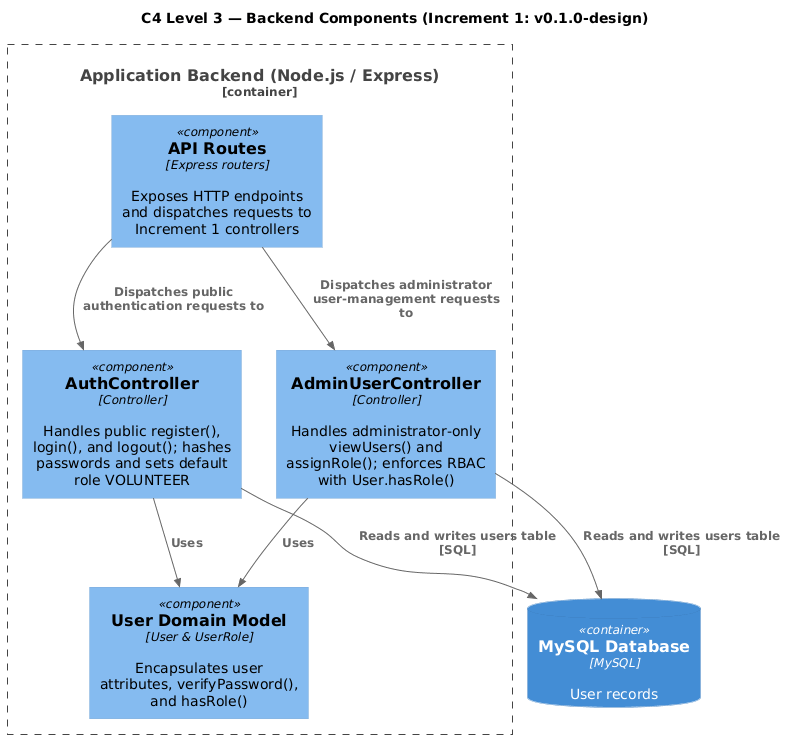
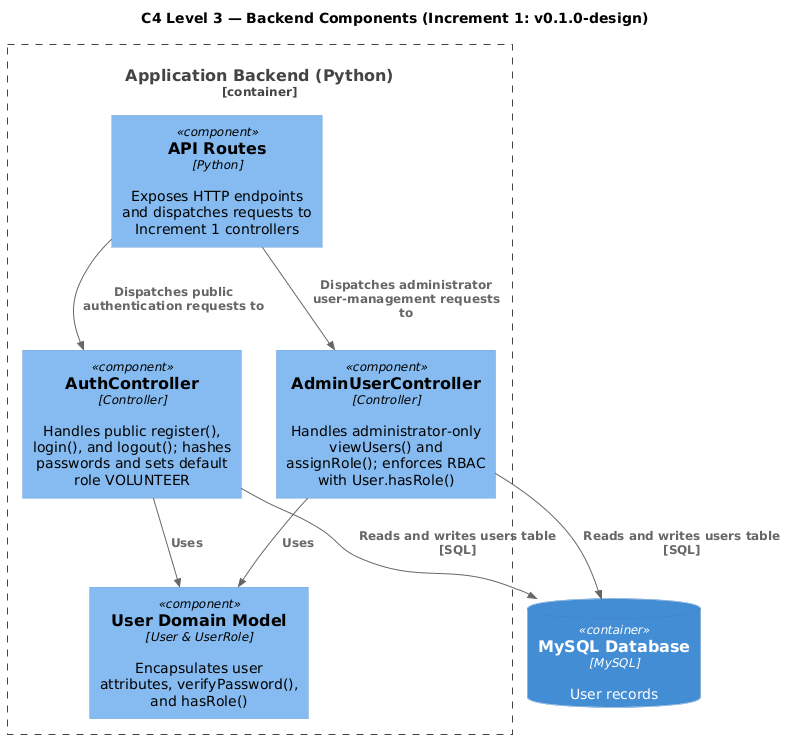
Fix backend to become python and implement database

Changed region(s): [[0.0906, 0.0924, 0.5434, 0.1232], [0.2113, 0.2155, 0.3321, 0.2463]]

diff --git a/docs/traceability_matrix.md b/docs/traceability_matrix.md
@@ -6,15 +6,15 @@ This matrix follows the four-increment roadmap in [the development plan](increme
 
 | Requirement ID | Use Case / Design Element | Increment / Version | Implementation Module(s) | Test(s) | Status |
 |---|---|---|---|---|---|
-| FR-01 | UC01; `AuthController`, `User`, `UserRole`; [SD01](../uml/sequence-diagrams/SD01_High_Level_UC01_Auth.puml), [SD03](../uml/sequence-diagrams/SD03_Low_Level_UC01_Auth.puml), [combined activity](../uml/activity-diagrams/AD_Increment1_Combined.puml), [ERD: User and role enum](../uml/erd_increment1.puml) | Increment 1 (`v0.1.0-design` / `v0.1.0`) | Planned: `AuthController`, `User` | Planned: `tests/auth/register.test.js` | Designed (`v0.1.0-design`) |
-| FR-02 | UC01; `AuthController`, `User`; [SD01](../uml/sequence-diagrams/SD01_High_Level_UC01_Auth.puml), [SD03](../uml/sequence-diagrams/SD03_Low_Level_UC01_Auth.puml), [combined activity](../uml/activity-diagrams/AD_Increment1_Combined.puml) | Increment 1 (`v0.1.0-design` / `v0.1.0`) | Planned: `AuthController`, `User` | Planned: `tests/auth/login_logout.test.js` | Designed (`v0.1.0-design`) |
-| FR-03 | UC01, UC02; `User`, `UserRole`, `AdminUserController`; [SD02](../uml/sequence-diagrams/SD02_High_Level_UC02_UserManagement.puml), [SD04](../uml/sequence-diagrams/SD04_Low_Level_UC02_UserManagement.puml), [ERD role enum](../uml/erd_increment1.puml) | Increment 1 (`v0.1.0-design` / `v0.1.0`) | Planned: `AdminUserController`, `User`, `UserRole` | Planned: `tests/admin/roles.test.js` | Designed (`v0.1.0-design`) |
-| FR-04 | UC01, UC02; `User.hasRole()`, `AuthController`, `AdminUserController`; [SD03](../uml/sequence-diagrams/SD03_Low_Level_UC01_Auth.puml), [SD04](../uml/sequence-diagrams/SD04_Low_Level_UC02_UserManagement.puml) | Increment 1 (`v0.1.0-design` / `v0.1.0`) | Planned: `AuthController`, `AdminUserController`, `User` | Planned: `tests/auth/rbac.test.js` | Designed (`v0.1.0-design`) |
+| FR-01 | UC01; `AuthController`, `User`, `UserRole`; [SD01](../uml/sequence-diagrams/SD01_High_Level_UC01_Auth.puml), [SD03](../uml/sequence-diagrams/SD03_Low_Level_UC01_Auth.puml), [combined activity](../uml/activity-diagrams/AD_Increment1_Combined.puml), [ERD: User and role enum](../uml/erd_increment1.puml) | Increment 1 (`v0.1.0-design` / `v0.1.0`) | Planned: `AuthController`, `User` | Planned: `tests/auth/test_register.py` | Designed (`v0.1.0-design`) |
+| FR-02 | UC01; `AuthController`, `User`; [SD01](../uml/sequence-diagrams/SD01_High_Level_UC01_Auth.puml), [SD03](../uml/sequence-diagrams/SD03_Low_Level_UC01_Auth.puml), [combined activity](../uml/activity-diagrams/AD_Increment1_Combined.puml) | Increment 1 (`v0.1.0-design` / `v0.1.0`) | Planned: `AuthController`, `User` | Planned: `tests/auth/test_login_logout.py` | Designed (`v0.1.0-design`) |
+| FR-03 | UC01, UC02; `User`, `UserRole`, `AdminUserController`; [SD02](../uml/sequence-diagrams/SD02_High_Level_UC02_UserManagement.puml), [SD04](../uml/sequence-diagrams/SD04_Low_Level_UC02_UserManagement.puml), [ERD role enum](../uml/erd_increment1.puml) | Increment 1 (`v0.1.0-design` / `v0.1.0`) | Planned: `AdminUserController`, `User`, `UserRole` | Planned: `tests/admin/test_roles.py` | Designed (`v0.1.0-design`) |
+| FR-04 | UC01, UC02; `User.hasRole()`, `AuthController`, `AdminUserController`; [SD03](../uml/sequence-diagrams/SD03_Low_Level_UC01_Auth.puml), [SD04](../uml/sequence-diagrams/SD04_Low_Level_UC02_UserManagement.puml) | Increment 1 (`v0.1.0-design` / `v0.1.0`) | Planned: `AuthController`, `AdminUserController`, `User` | Planned: `tests/auth/test_rbac.py` | Designed (`v0.1.0-design`) |
 | FR-05–FR-06 | UC03; planned Increment 2 UML under `uml/increment2/` | Increment 2 (`v0.2.0-design` / `v0.2.0`) | Planned: Event module | Planned: `tests/events/` | Deferred to Increment 2 |
 | FR-07–FR-10 | UC04; planned Increment 2 UML under `uml/increment2/` | Increment 2 (`v0.2.0-design` / `v0.2.0`) | Planned: Explore module | Planned: `tests/explore/` | Deferred to Increment 2 |
 | FR-11, FR-12, FR-14 | UC05; planned Increment 3 UML under `uml/increment3/` | Increment 3 (`v0.3.0-design` / `v0.3.0`) | Planned: Application module | Planned: `tests/applications/` | Deferred to Increment 3 |
 | FR-13, FR-15–FR-18 | UC06; planned Increment 3 UML under `uml/increment3/` | Increment 3 (`v0.3.0-design` / `v0.3.0`) | Planned: Attendance module | Planned: `tests/attendance/` | Deferred to Increment 3 |
-| FR-20 | UC02; `AdminUserController`, `User`, `UserRole`; [SD02](../uml/sequence-diagrams/SD02_High_Level_UC02_UserManagement.puml), [SD04](../uml/sequence-diagrams/SD04_Low_Level_UC02_UserManagement.puml), [combined activity](../uml/activity-diagrams/AD_Increment1_Combined.puml), [ERD](../uml/erd_increment1.puml) | Increment 1 (`v0.1.0-design` / `v0.1.0`) | Planned: `AdminUserController`, `User` | Planned: `tests/admin/user_management.test.js` | Designed (`v0.1.0-design`) |
+| FR-20 | UC02; `AdminUserController`, `User`, `UserRole`; [SD02](../uml/sequence-diagrams/SD02_High_Level_UC02_UserManagement.puml), [SD04](../uml/sequence-diagrams/SD04_Low_Level_UC02_UserManagement.puml), [combined activity](../uml/activity-diagrams/AD_Increment1_Combined.puml), [ERD](../uml/erd_increment1.puml) | Increment 1 (`v0.1.0-design` / `v0.1.0`) | Planned: `AdminUserController`, `User` | Planned: `tests/admin/test_user_management.py` | Designed (`v0.1.0-design`) |
 | FR-19, FR-21 | UC07; planned Increment 4 UML under `uml/increment4/` | Increment 4 (`v0.4.0-design` / `v0.4.0`) | Planned: Analytics module | Planned: `tests/analytics/` | Deferred to Increment 4 |
 
 FR-01 registration uses a salted one-way password hash and assigns `VOLUNTEER` server-side by default. Public registration cannot assign privileged roles. The first Administrator is provisioned manually through a guarded setup; subsequent role assignment is administrator-only.
@@ -32,9 +32,9 @@ FR-01 registration uses a salted one-way password hash and assigns `VOLUNTEER` s
 | NFR-7 | System growth | Scale/data-volume tests | Planned for integration |
 | NFR-8 | Layerable deployment design | Horizontal scaling test | Planned for deployment |
 | NFR-9 | Later event capacity | Event capacity tests | Deferred to Increment 2 |
-| NFR-10 | `User.passwordHash`; `AuthController.register()` | Verify salted one-way hashing and no plaintext persistence | Planned: `tests/auth/register.test.js` |
+| NFR-10 | `User.passwordHash`; `AuthController.register()` | Verify salted one-way hashing and no plaintext persistence | Planned: `tests/auth/test_register.py` |
 | NFR-11 | HTTPS and protected database deployment | Transport/storage security review | Planned for deployment |
-| NFR-12 | UC01/UC02 role checks; `User.hasRole()` | Reject unauthenticated/non-admin protected requests | Planned: `tests/auth/rbac.test.js` |
+| NFR-12 | UC01/UC02 role checks; `User.hasRole()` | Reject unauthenticated/non-admin protected requests | Planned: `tests/auth/test_rbac.py` |
 | NFR-13 | Registration and account-update inputs | Invalid/malicious input tests | Planned: auth/admin test suites |
 | NFR-14 | Account/login security events | Audit-event coverage tests | Planned |
 | NFR-15 | Minimal `User` attributes and authorized account management | Data-minimization/access review | Planned |

diff --git a/docs/architecture.md b/docs/architecture.md
@@ -2,28 +2,28 @@
 
 ## Scope and technology
 
-The Event & Volunteer Management System is planned as a React browser client, Node.js/Express backend, and MySQL database. This repository contains design artifacts only; it has no application source, dependency manifest, database migration, or executable application tests. The diagrams describe intended design and do not claim implementation is complete.
+The Event & Volunteer Management System is planned as a React browser client, Python backend, and MySQL database. This repository contains design artifacts only; it has no application source, dependency manifest, database migration, or executable application tests. The diagrams describe intended design and do not claim implementation is complete.
 
-Increment 1 covers **UC01 User Account & Authentication**, **UC02 User Management & RBAC**, and persistence for the **`users` table only**: `id`, `name`, `email`, `password_hash`, `role`, `created_at`, and `updated_at`. `role` is one of `ADMINISTRATOR`, `EVENT_ORGANIZER`, or `VOLUNTEER`. UC03–UC07 are deferred across Increments 2–4 (`v0.2.0`–`v0.4.0`): Events & Exploration; Applications, Tasks & Attendance; and Statistics & Analytics.
+Increment 1 covers **UC01 User Account & Authentication**, **UC02 User Management & RBAC**, and the persistence entities in the Increment 1 ERD: `Role`, `User`, and `UserSession`. Each user has one role; a user may have zero or more persisted sessions. UC03–UC07 are deferred across Increments 2–4 (`v0.2.0`–`v0.4.0`): Events & Exploration; Applications, Tasks & Attendance; and Statistics & Analytics.
 
 ## Simplified architectural structure
 
 1. **Presentation / Boundary (React UI):** Provides registration, login/logout, and administrator user-management screens. It communicates with the backend API over HTTPS/JSON.
 2. **Control Layer:** `AuthController` handles `register()`, `login()`, and `logout()`. `AdminUserController` handles administrator-only `viewUsers()` and `assignRole()` operations.
-3. **Domain / Entity Layer:** `User` holds `id`, `name`, `email`, `passwordHash`, and `role`; its helper methods are `verifyPassword()` and `hasRole()`. `UserRole` defines the three supported roles.
-4. **Persistence (MySQL):** Stores the `users` table with a unique email, salted one-way `password_hash`, and role enum.
+3. **Domain / Entity Layer:** `User` holds `id`, `name`, `email`, `passwordHash`, and one role reference; its helper methods are `verifyPassword()` and `hasRole()`. `Role` defines the three supported roles. `UserSession` represents a user's persisted authentication session.
+4. **Persistence (MySQL):** Stores `roles`, `users`, and `user_sessions`. The user table has a unique email and salted one-way `password_hash`; each user references exactly one role. Session rows store a unique token hash and creation, expiry, and revocation timestamps.
 
-## Registration, roles, and stateless authentication
+## Registration, roles, and persisted sessions
 
 Public registration accepts a name, email, and password. The backend validates and sanitizes the input, enforces valid unique email, hashes the password using a salted one-way algorithm (NFR-10), and always assigns `VOLUNTEER`. It ignores or rejects any client-supplied role. Plaintext passwords are never stored.
 
-`AuthController.login()` issues a signed, expiring JWT in a `Secure`, `HttpOnly`, `SameSite` cookie after verifying the password hash. Authentication state is stateless: there is no separate session entity or session table. `AuthController.logout()` clears the authentication cookie. Expired or invalid signatures are rejected.
+`AuthController.login()` verifies the password hash and establishes a persisted `UserSession`. The database stores the token hash rather than the bearer token, together with creation, expiry, and revocation timestamps. Requests are authenticated against a non-revoked, unexpired session. `AuthController.logout()` revokes the active session. The ERD does not define the token format or how the token hash is generated; those details must be selected during backend design.
 
 The first Administrator is created manually through a guarded one-time setup, never through public registration. Setup requires protected one-time authorization, refuses to run if an Administrator already exists, serializes concurrent attempts, and consumes the authorization. Thereafter, only an authenticated Administrator may call `AdminUserController.assignRole()`. The backend validates the requested value against `UserRole` and uses `User.hasRole()` for RBAC checks (FR-04, NFR-12). Public registration cannot grant Administrator or Event Organizer privileges.
 
 ## Persistence and security
 
-The `users` table has a primary key, unique `email`, required `password_hash`, required `role` enum, and creation/update timestamps. The role enum permits exactly the three supported values. MySQL access is limited to the backend and uses parameterized statements. HTTPS/TLS protects data in transit; appropriate encryption or access controls protect data at rest (NFR-11).
+The `roles` table contains the three supported roles. The `users` table has a primary key, unique `email`, required `password_hash`, required role foreign key, and creation/update timestamps. The `user_sessions` table belongs to one user and stores a unique token hash with creation, expiry, and optional revocation timestamps. MySQL access is limited to the backend and uses parameterized statements. HTTPS/TLS protects data in transit; appropriate encryption or access controls protect data at rest (NFR-11).
 
 Use safe user-facing errors without exposing internal details (NFR-05), validate and sanitize inputs (NFR-13), record security-relevant events without passwords or authentication secrets (NFR-14, NFR-20), and collect only necessary account data (NFR-15). Responsive UI, consistent navigation, and field-level validation feedback are required (NFR-16–NFR-18). The login performance target (NFR-01) and automated auth/RBAC tests (NFR-21) require verification when implementation exists. Backup and recovery constraints (NFR-02, NFR-03) are operational requirements and do not add tables to the Increment 1 account model.
 

diff --git a/prompts/step4_architecture.md b/prompts/step4_architecture.md
@@ -6,14 +6,14 @@
 - **Agent Name:** Codex
 - **Goal:** Document the system architecture, external systems, and vendor-neutral deployment view for the Event & Volunteer Management System.
 - **Relevant Requirements & UML/Architecture References:** FR-01, FR-12; NFR-03, NFR-06, NFR-07, NFR-10, NFR-12, NFR-15, NFR-16, NFR-21, NFR-30, NFR-31; `docs/requirements.md`; `docs/architecture.md`; `uml/system_context.puml`, `uml/container.puml`, `uml/component.puml`, `uml/deployment.puml`.
-- **Key Instructions Sent to Agent:** Retain the React / Node.js-Express / MySQL three-tier design and human roles; show email and cloud backup systems with requirements-linked interactions; add the vendor-neutral C4 Deployment View; preserve numbered requirements, avoid claiming implementation or selecting providers, and do not write application code.
+- **Key Instructions Sent to Agent:** Retain the React / Python / MySQL three-tier design and human roles; show email and cloud backup systems with requirements-linked interactions; add the vendor-neutral C4 Deployment View; preserve numbered requirements, avoid claiming implementation or selecting providers, and do not write application code.
 - **Intended Outputs:** Updated architecture and related project documentation, editable PlantUML diagrams and rendered images, and this prompt record.
 - **Acceptance Criteria:** Architecture and deployment views match stated requirements; references and traceability are updated; diagrams remain editable; no application code is written.
 - **Links to Results:** `docs/architecture.md`; `docs/requirements.md`; `docs/traceability_matrix.md`; `docs/report.md`; `README.md`; `uml/system_context.puml`; `uml/container.puml`; `uml/component.puml`; `uml/deployment.puml`; `uml/rendered/system_contex.png`; `uml/rendered/container.png`; `uml/rendered/component.png`; `uml/rendered/deployment.png`; `docs/ai_development_log.md`.
 
 ## User request
 
-Complete Step 4 for the Event & Volunteer Management System using React, Node.js/Express, and MySQL. Document the three-tier client-server architecture and C4 Levels, create PlantUML sources and rendered PNGs, and log the work without writing application code. The architecture includes these requirement-linked external systems:
+Complete Step 4 for the Event & Volunteer Management System using React, Python, and MySQL. Document the three-tier client-server architecture and C4 Levels, create PlantUML sources and rendered PNGs, and log the work without writing application code. The architecture includes these requirement-linked external systems:
 
 - **Email Service (`System_Ext`):** The application backend sends account registration/verification and volunteer application status emails over SMTP/HTTPS; supports FR-01 and FR-12, with external wait excluded by NFR-03.
 - **Cloud Backup Storage (`System_Ext`):** A backend scheduled process uploads automated daily MySQL backups over HTTPS, with 30-day retention and support for the NFR-07 four-hour recovery objective; supports NFR-06 and NFR-07.
@@ -21,7 +21,7 @@ Complete Step 4 for the Event & Volunteer Management System using React, Node.js
 ## Architecture inputs
 
 - `docs/requirements.md` is the source of truth for FR-01–FR-21 and NFR-01–NFR-32. Relevant requirements: FR-01, FR-12, NFR-03, NFR-06, and NFR-07.
-- `docs/architecture.md`: existing React / Node.js-Express / MySQL three-tier design and role workflows.
+- `docs/architecture.md`: existing React / Python / MySQL three-tier design and role workflows.
 
 ## Decisions
 
@@ -36,7 +36,7 @@ Complete Step 4 for the Event & Volunteer Management System using React, Node.js
 Add a vendor-neutral C4 Deployment View using `C4_Deployment.puml` at `uml/deployment.puml`, render it to `uml/rendered/deployment.png`, and update architecture, traceability, report, this prompt record, and AI development log as needed. Show:
 
 - Client Browser Node running the React frontend over HTTPS (NFR-15, NFR-21, NFR-30).
-- Horizontally scalable Application Server Node serving the React bundle and running Node.js/Express (NFR-10, NFR-12, NFR-15, NFR-31).
+- Horizontally scalable Application Server Node serving the React bundle and running the Python backend (NFR-10, NFR-12, NFR-15, NFR-31).
 - Private Database Server Node running MySQL with encrypted storage and backend-only SQL access (NFR-15, NFR-16, NFR-31).
 - External Email Service over SMTP/TLS or HTTPS for FR-01 and FR-12 (NFR-03), and Cloud Backup Storage over HTTPS for daily backups, 30-day retention, and four-hour recovery support (NFR-06, NFR-07).
 

diff --git a/src/database/README.md b/src/database/README.md
@@ -1,0 +1,54 @@
+# Database
+
+## Purpose and scope
+
+This MySQL database implements the current Increment 1 ERD for authentication and user management. It contains `roles`, `users`, and `user_sessions`. The repository has no approved complete-system ERD, so entities for events, applications, tasks, attendance, hours, and reports are not included until their later-increment designs are approved.
+
+The ERD has a separate `Role` entity and a persisted `UserSession` entity. This conflicts with `docs/architecture.md` and the traceability matrix, which describe a role enum on `users` and stateless JWT authentication. The SQL follows the ERD because the project task identifies it as the primary schema reference. The token format/lifecycle and resolution of the stateless-versus-persisted session conflict need team confirmation. The schema stores only a 64-character token digest, not a bearer token.
+
+The approved repository stack documents React, Python, and MySQL. This SQL can be called from the Python backend using parameterized statements. No application code is included.
+
+## Requirements
+
+- MySQL 8.0.16 or later; InnoDB and `utf8mb4` support are required.
+- A database account with permission to create the database/tables, and a MySQL client.
+
+## Setup
+
+From the repository root, run:
+
+```sh
+mysql -u YOUR_MYSQL_USER -p < database/schema.sql
+mysql -u YOUR_MYSQL_USER -p event_volunteer_management < database/seed.sql
+```
+
+`schema.sql` creates/uses `event_volunteer_management`. It is repeatable for initial setup, but it is not a migration framework and does not alter existing tables. Do not run it against a shared or production database without a reviewed migration and backup plan.
+
+## Files
+
+- `schema.sql` creates the complete schema represented by the current Increment 1 ERD, with keys, constraints, and indexes.
+- `operations.sql` documents parameterized SQL statements for Increment 1 registration, account retrieval/management, role assignment, and session lifecycle.
+- `seed.sql` inserts the three fictional system role values. User records are intentionally created through the application so a real salted password hash is generated by the application’s password-hashing library.
+- `increment_1_smoke.sql` runs transactional smoke checks for account creation/read/update, duplicate-email rejection, and session creation/revocation, then rolls back the probe rows.
+- `README.md` documents setup, scope, constraints, and known design decisions.
+
+## Running the smoke checks
+
+After setup and seeding, run:
+
+```sh
+mysql -u YOUR_MYSQL_USER -p event_volunteer_management < database/increment_1_smoke.sql
+```
+
+Success prints a row beginning `PASS:`. The script creates and drops a stored procedure and rolls back all probe data. It has not been executed in this environment because a local MySQL client/server was not found.
+
+## Relationships and decisions
+
+- One `roles` row can be assigned to zero or more `users`; each user must reference exactly one role. Role deletion is restricted while accounts use it.
+- One user can own zero or more sessions; each session belongs to one user. User deletion cascades to its sessions.
+- Role values are constrained to Administrator, Event Organizer, and Volunteer. Public registration must assign Volunteer server-side; role authorization and privileged role provisioning remain backend responsibilities.
+- `users.email` and `user_sessions.token_hash` are unique. Session rows are indexed by user/expiry and expiry/revocation for lookup and cleanup.
+- `password_hash` stores an application-generated salted one-way hash. SQL does not hash passwords.
+- `CHECK` constraints are enforced by MySQL starting with 8.0.16, hence the minimum version.
+
+Increment 1 covers authentication and user management. Event management/discovery belongs to Increment 2; applications, assignments, attendance, and hours belong to Increment 3; reporting belongs to Increment 4. Their future operations are not implemented here.

diff --git a/docs/project_description.md b/docs/project_description.md
@@ -32,7 +32,7 @@ These capabilities describe the intended functional scope. The requirements and 
 The system is designed as a three-tier web application:
 
 1. **Frontend:** A responsive React single-page application (SPA), using HTML, CSS, and JavaScript, provides role-aware interfaces in desktop, tablet, and mobile browsers. It presents event discovery and details, applications, assignments, attendance information, and reports. The frontend communicates with the backend through JSON API requests over HTTPS.
-2. **Backend:** A modular Node.js and Express REST API handles requests, authentication, role authorization, validation, and business rules. Increment 1 (`v0.1.0-design` / `v0.1.0`) implements the core authentication and RBAC slice using `AuthController`, `AdminUserController`, `User`, and `UserRole`. Its broader planned logical components include API Routes; Authentication & Authorization; User Management; Event Management; Application Management; Task Assignment; Attendance & Hours; Statistics & Reporting; Data Access; Email Notifications; and Scheduled Backup & Recovery. The remaining modules are added across Increments 2–4 (`v0.2.0`–`v0.4.0`). The backend is the integration boundary for persistence and external services.
+2. **Backend:** A Python backend handles requests, authentication, role authorization, validation, and business rules. No Python web framework has been selected. Increment 1 (`v0.1.0-design` / `v0.1.0`) implements the core authentication and RBAC slice using `AuthController`, `AdminUserController`, `User`, and `UserRole`. Its broader planned logical components include API Routes; Authentication & Authorization; User Management; Event Management; Application Management; Task Assignment; Attendance & Hours; Statistics & Reporting; Data Access; Email Notifications; and Scheduled Backup & Recovery. The remaining modules are added across Increments 2–4 (`v0.2.0`–`v0.4.0`). The backend is the integration boundary for persistence and external services.
 3. **Database and security:** A MySQL relational database stores users and roles, events, applications, assignments, attendance, hours, and reporting data. It is placed on a private network, with SQL access restricted to the backend. The design calls for HTTPS/TLS to protect data in transit and appropriate encryption or equivalent access controls for sensitive data at rest.
 
 Email Service notifications, including account registration/verification and application decision messages, are deferred to later increments and are not part of Increment 1 account registration. When introduced, the backend is designed to send them over SMTP/TLS or HTTPS. A scheduled process creates automated daily MySQL backups and uploads them over HTTPS to offsite **Cloud Backup Storage**. The intended backup configuration retains data for at least 30 days and supports a four-hour restoration objective following a declared incident. Email and backup providers have not been selected in the design sources.

diff --git a/README.md b/README.md
@@ -13,7 +13,7 @@ Name: Layan Abu Salah            StudentId: 20241108
 ## 10.2 Project Overview
 * **System Purpose:** Centralizes event organization and volunteer coordination into one web platform, replacing fragmented tools like spreadsheets, online forms, and messaging apps.
 * **Expected Final Outcome:** A functional web application supporting Administrators, Event Organizers, and Volunteers from event creation and registration through task assignment, attendance tracking, and volunteer hour reporting.
-* **Main Technologies & Tools:** HTML, CSS, JavaScript, React, Node.js, MySQL, Git & GitHub, PlantUML.
+* **Main Technologies & Tools:** HTML, CSS, JavaScript, React, Python, MySQL, Git & GitHub, PlantUML.
 
 ---
 
@@ -51,5 +51,5 @@ See [the incremental development plan](docs/incremental_development_plan.md) for
 
 ---
 
-**Architecture update:** Increment 1 (`v0.1.0-design`) documents the planned three-tier React / Node.js-Express / MySQL architecture for UC01–UC02. Email Service notifications are deferred to later application increments; email is not part of Increment 1 registration. Backup and recovery are operational requirements; Cloud Backup Storage is not modeled as an Increment 1 integration. See [the architecture](docs/architecture.md), [the incremental development plan](docs/incremental_development_plan.md), [the traceability matrix](docs/traceability_matrix.md), [the AI development log](docs/ai_development_log.md), and the C4 diagrams under `uml/`.
+**Architecture update:** Increment 1 (`v0.1.0-design`) documents the planned three-tier React / Python / MySQL architecture for UC01–UC02. Email Service notifications are deferred to later application increments; email is not part of Increment 1 registration. Backup and recovery are operational requirements; Cloud Backup Storage is not modeled as an Increment 1 integration. See [the architecture](docs/architecture.md), [the incremental development plan](docs/incremental_development_plan.md), [the traceability matrix](docs/traceability_matrix.md), [the AI development log](docs/ai_development_log.md), and the C4 diagrams under `uml/`.
 C4 Deployment View: see [uml/deployment.puml](uml/deployment.puml), rendered as [uml/rendered/deployment.png](uml/rendered/deployment.png), and documented in [docs/architecture.md](docs/architecture.md) (Section 5.1).

diff --git a/prompts/database_implementation_increment1.md b/prompts/database_implementation_increment1.md
@@ -1,0 +1,40 @@
+# Increment 1 Database Implementation Prompt
+
+## Objective
+
+Create the MySQL database implementation for the Event & Volunteer Management System's first development increment: Authentication and User Management.
+
+## Sources
+
+- `docs/requirements.md`
+- `docs/incremental_development_plan.md`
+- `docs/architecture.md`
+- `docs/traceability_matrix.md`
+- `uml/erd_increment1.puml`
+- Existing database conventions and documentation in the repository
+
+Use the ERD as the primary reference for entities, attributes, keys, and relationships. Use requirements and workflow documents to clarify database behavior. Record any disagreements among sources without changing approved diagrams or requirements.
+
+## Scope and constraints
+
+- Implement the approved Increment 1 schema in MySQL. Use suitable primary and foreign keys, constraints, indexes, data types, and deletion rules.
+- Include the approved account, role, and authentication/session data only. Do not add entities solely because they are common in similar systems.
+- Keep the schema suitable for the later increments without implementing their backend or frontend operations.
+- Provide parameterized SQL examples for Increment 1 account and authentication operations, fictional development seed data, and a practical Increment 1 smoke script.
+- Store only application-generated salted one-way password hashes. Never put plaintext passwords in SQL seed data.
+- Use transactions where related database writes must succeed or fail together.
+- Use MySQL-compatible SQL only. Do not create Python, Flutter, or other application code.
+- Do not modify approved requirements or diagrams. Do not execute destructive operations against shared or production databases.
+
+## Deliverables
+
+- `database/schema.sql`
+- `database/operations.sql`
+- `database/seed.sql`
+- `database/increment_1_smoke.sql`
+- `database/README.md`
+- Update the main README, traceability, and AI development log only where their database references require it.
+
+## Verification and reporting
+
+Run the schema, seed, and smoke SQL against local MySQL when available. Report actual results and limitations; do not claim tests passed without execution. Explain the tables and relationships, their ERD correspondence, Increment 1 coverage, and any unresolved design conflicts.

diff --git a/docs/incremental_development_plan.md b/docs/incremental_development_plan.md
@@ -36,7 +36,7 @@ The roadmap separates design milestones (`-design`) from working releases. UC01 
 
 **Main Question:** Can users register and authenticate safely while only administrators can view accounts and assign roles?
 
-**Tools:** React, Node.js/Express, MySQL, Git/GitHub, Node.js built-in `node:test` runner.
+**Tools:** React, Python, MySQL, Git/GitHub, Python standard-library `unittest` runner.
 
 **Acceptance Criteria:**
 
@@ -63,7 +63,7 @@ The roadmap separates design milestones (`-design`) from working releases. UC01 
 
 **Main Question:** Can organizers publish events and volunteers find and apply to eligible events?
 
-**Tools:** React, Node.js/Express, MySQL, Git/GitHub, `node:test`.
+**Tools:** React, Python, MySQL, Git/GitHub, Python standard-library `unittest` runner.
 
 **Acceptance Criteria:**
 
@@ -87,7 +87,7 @@ The roadmap separates design milestones (`-design`) from working releases. UC01 
 
 **Main Question:** Can organizers process applications, assign eligible volunteers, and record participation accurately?
 
-**Tools:** React, Node.js/Express, MySQL, Git/GitHub, `node:test`.
+**Tools:** React, Python, MySQL, Git/GitHub, Python standard-library `unittest` runner.
 
 **Acceptance Criteria:**
 
@@ -111,7 +111,7 @@ The roadmap separates design milestones (`-design`) from working releases. UC01 
 
 **Main Question:** Can authorized organizers and administrators view accurate scoped statistics?
 
-**Tools:** React, Node.js/Express, MySQL, Git/GitHub, `node:test`.
+**Tools:** React, Python, MySQL, Git/GitHub, Python standard-library `unittest` runner.
 
 **Acceptance Criteria:**
 
@@ -123,7 +123,7 @@ The roadmap separates design milestones (`-design`) from working releases. UC01 
 
 **Main Question:** Do all increments work together as a secure, usable, and traceable system?
 
-**Tools:** React, Node.js/Express, MySQL, Git/GitHub, `node:test`, browser automation selected during implementation, PlantUML/Mermaid.
+**Tools:** React, Python, MySQL, Git/GitHub, Python standard-library `unittest` runner, browser automation selected during implementation, PlantUML/Mermaid.
 
 **Acceptance Criteria:**
 

diff --git a/prompts/step6_project_description.md b/prompts/step6_project_description.md
@@ -18,7 +18,7 @@ Write a complete, formal project description for the CS13477 project, Event & Vo
 1. **Project Overview & Purpose** — Describe the web platform for organizing community and institutional events and coordinating volunteers. Explain how it addresses manual tracking, scattered applications, attendance verification, and capacity management.
 2. **Target Users & Roles** — Describe Volunteer, Event Organizer, and Administrator based on the system context, requirements, and class diagram.
 3. **Core System Capabilities (Scope)** — Cover authentication and role-based access; events and capacity; application and approval workflow with email notifications; task assignment; attendance and hours; statistics and reporting. Use modeled entities and enums where relevant: `User`, `UserRole`, `Event`, `EventStatus`, `Application`, `ApplicationStatus`, `Task`, `TaskStatus`, `Attendance`, `Report`, and `ReportType`.
-4. **Technical Architecture & Technology Stack** — Explain the three-tier React SPA, Node.js/Express REST API and its component responsibilities, MySQL relational database, HTTPS/TLS and at-rest protection, Email Service over SMTP/HTTPS, and automated daily offsite Cloud Backup Storage with at least 30-day retention and a four-hour recovery objective.
+4. **Technical Architecture & Technology Stack** — Explain the three-tier React SPA, Python backend and its component responsibilities, MySQL relational database, HTTPS/TLS and at-rest protection, Email Service over SMTP/HTTPS, and automated daily offsite Cloud Backup Storage with at least 30-day retention and a four-hour recovery objective. Do not select a Python web framework unless approved separately.
 5. **Development Methodology & Project Goals** — State that development is incremental, uses Agentic AI workflows, maintains requirements-to-code-to-test traceability, and follows the version progression `v0.x.0-design` -> `v0.x.0` -> `v1.0.0`.
 
 ## Consistency and writing constraints

diff --git a/docs/report.md b/docs/report.md
@@ -2,7 +2,7 @@
 
 ## Project progress
 
-The architecture documents the three-tier React frontend, Node.js/Express backend, and MySQL database, including the Volunteer, Event Organizer, and Administrator actors and integrations with Email Service and Cloud Backup Storage.
+The architecture documents the three-tier React frontend, Python backend, and MySQL database, including the Volunteer, Event Organizer, and Administrator actors and integrations with Email Service and Cloud Backup Storage.
 
 A vendor-neutral C4 Deployment View now shows the client browser, horizontally scalable application server, private database server, and external email and backup infrastructure. It links the topology to browser compatibility and responsiveness, TLS, backend-only database access, horizontal scaling, daily offsite backup with 30-day retention, four-hour recovery support, and deployment portability (NFR-06, NFR-07, NFR-10, NFR-12, NFR-15, NFR-16, NFR-21, NFR-30, NFR-31).
 

diff --git a/prompts/step5_class_diagram.md b/prompts/step5_class_diagram.md
@@ -18,7 +18,7 @@ Read `docs/requirements.md` and `docs/architecture.md`. Create a complete UML cl
 ## Sources consulted
 
 - `docs/requirements.md` (FR-01–FR-21): account roles and access; organizer event management; volunteer event discovery and applications; application decisions; task assignment; attendance and hours; event and platform reporting.
-- `docs/architecture.md`: React client, Node.js/Express backend, MySQL data tier, role-oriented workflows, and the note that the detailed schema is not yet specified.
+- `docs/architecture.md`: React client, Python backend, MySQL data tier, role-oriented workflows, and the note that the detailed schema is not yet specified.
 
 ## Modeling decisions
 
